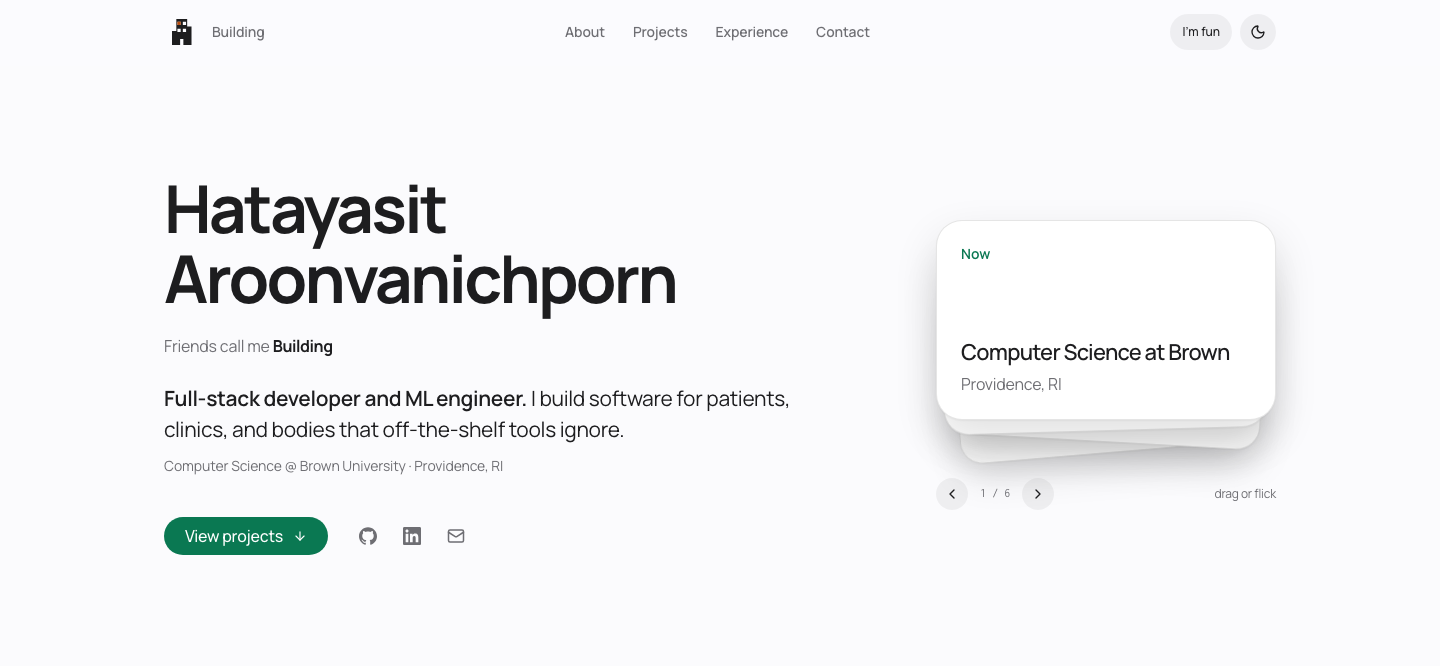
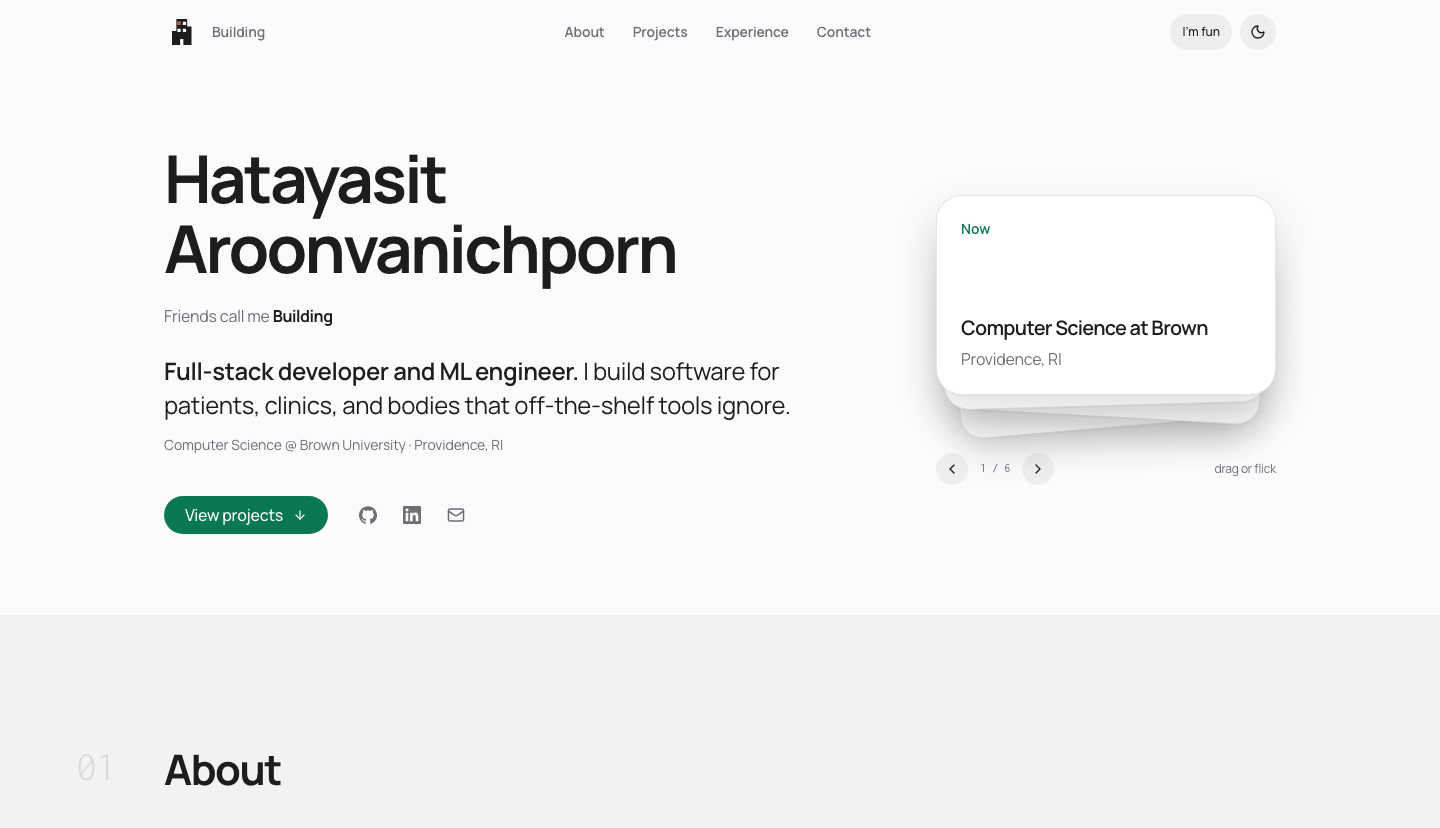
Cut the README to a 2-minute read and give it a demo
It was 1540 words, a 6.4-minute read, and nobody was going to finish it.
Now 538. The FSAB brief asks for "short, specific explanations" and for
"briefly, one challenge", so the old length was over-delivering against a
rubric that asked for the opposite.

The hero now does the explaining. The retro cell is a GIF of the avatar
waking up — eyes open, head lifts, sabre into guard, the Stand summoned —
beside a still of boring mode. Fun mode moves, boring mode sits there, so
the switch needs no caption. Both panels are 1440x828 so the cells match.

Structure borrowed from the READMEs that do this well: a quiet nav row of
middot-separated links, one monoline icon per heading as a visual anchor
(lucide, self-hosted, no external icon service), and the terminal's help
output folded into a <details> where it costs nothing to skim past.

No badges. There is no CI, no package and no download count here, so a
badge row would be decoration pretending to be information.

Cuts: the typography lesson (the rubric wants one challenge, and the
terminal story is the better one), and eight reference entries that
amounted to "I read the docs for the library I used". What remains is
what a licence requires — the Silver Chariot model, the Brown arms, the
OFL typefaces, lucide — plus the Vite starter and the Apple talk the
spring maths came from.

docs/screenshot-retro.png is gone; the GIF replaced it.

diff --git a/README.md b/README.md
@@ -1,103 +1,99 @@
 # <img src="public/favicon.svg" width="26" align="center" alt=""> Hatayasit Aroonvanichporn · Portfolio
 
-My personal site, rebuilt from scratch in React and TypeScript for the Full Stack at Brown developer application. Live at [hatayasit.com](https://www.hatayasit.com).
+My personal site, built from scratch in React and TypeScript.
+
+<h6 align="center">
+  <a href="https://www.hatayasit.com">Live site</a>
+  ·
+  <a href="#overview">What it does</a>
+  ·
+  <a href="#how-to-run-it">Run it</a>
+  ·
+  <a href="#my-contribution">What I built</a>
+</h6>
 
 <table>
 <tr>
-<td width="50%"><img src="docs/screenshot-retro.png" alt="The site in its default retro mode: pixel type on near-black, with a voxel self-portrait holding a sabre"></td>
+<td width="50%"><img src="docs/demo.gif" alt="The site loading: a voxel self-portrait wakes up, lifts its head, raises a sabre into guard, and summons a translucent Stand behind it"></td>
 <td width="50%"><img src="docs/screenshot-boring.png" alt="The same page after pressing I'm boring: quiet type on white, with a card deck where the avatar was"></td>
 </tr>
 <tr>
-<td><b>Default.</b> Pixel type, scanlines, a voxel self-portrait, a terminal on <kbd>`</kbd>.</td>
-<td><b>After pressing “I’m boring”.</b> Same content, same components, no game layer.</td>
+<td><b>Default.</b> Pixel type, a voxel self-portrait, a terminal on <kbd>`</kbd>.</td>
+<td><b>After “I’m boring”.</b> Same components, no game layer.</td>
 </tr>
 </table>
 
-One button swaps those. It is a single piece of React state mirrored onto `<html data-mode>`: every difference above is CSS keyed off that attribute, and the 3D scene is never mounted, so boring mode never downloads three.js.
+**React 19 · TypeScript · Vite 8 · Tailwind v4 · three.js** — four runtime dependencies, no animation library.
 
-## Overview
+## <img src="docs/icons/eye.svg" width="20" align="center" alt=""> Overview
 
-Four things are interactive.
+- **Project gallery with category filters.** One `useState`. The visible list is derived from it on every render, and each project reaches `ProjectCard` through props.
+- **An in-page terminal.** <kbd>`</kbd> opens it. Eleven commands, arrow-key history, reading the same data files as the page.
+- **An "I'm boring" switch.** One attribute on `<html>`; every visual difference above is CSS keyed off it. The 3D scene is never mounted, so boring mode never downloads three.js.
+- **A card deck you can throw.** Drag, flick, catch it mid-flight. A damped spring I wrote judges a throw by where the card was *going*, not where it was let go.
 
-**Project gallery with category filters** (Web, Mobile, ML & vision, Education). The active filter is the only state; the visible list is derived from it on every render, and each project reaches `ProjectCard` through props. HaemoCare and Equipose lead as full-width cards, HaemoCare beside a screenshot of the running app. Projects with no public code say why — internal to MFEC, a printed textbook — instead of quietly dropping the buttons.
+<details>
+<summary>What the terminal knows</summary>
 
-**An in-page terminal.** <kbd>`</kbd> or the terminal button opens it; the arrow keys walk back through history. It reads the same data files as the page, so it cannot disagree with the gallery.
+```console
+❯ help
+help             show this list
+about            who I am
+projects         list projects (alias: ls)
+open <slug>      open a project repo in a new tab
+skills           grouped skill list
+experience       work and awards
+contact          email, GitHub, LinkedIn
+goto <section>   scroll to about | projects | experience | contact
+theme            toggle dark / light
+boring           turn off the retro game styling
+clear            clear the screen
+```
 
-**The "I'm boring" switch.** It takes away the scanlines, the starfield, the fake window bars and the panels, leaving content separated by hairlines, and lays the page out on one rule: facts left in a monospace, prose right, every section aligned to the same rail. The choice persists in `localStorage`. The switch cross-fades through the View Transitions API (`src/lib/viewTransition.ts`), which also slides the filter thumb; reduced motion, reduced transparency and high contrast each have a fallback.
+</details>
 
-**A card deck you can throw** (boring mode only, where the avatar would be). Six facts as a stack. Drag the top card and it tracks the pointer; flick it and it flies off and tucks under the stack; release gently and it springs home; catch it mid-flight and it stops in your hand. There is no animation library — `src/lib/spring.ts` is a damped spring that inherits the pointer's release velocity and judges a throw by where the card was *going*, not where it was let go. Tap, arrow keys and the Previous and Next buttons do the same work, and each card is announced to screen readers.
+## <img src="docs/icons/terminal.svg" width="20" align="center" alt=""> How to run it
 
-On wide screens the hero carries a **voxel avatar**: Brown hoodie with the university arms, AirPods, four-point crutch, sabre, described as boxes on a grid in `src/data/avatar.ts` and drawn as instanced meshes. Silver Chariot stands behind it holding a rapier in the same pose. On load the avatar wakes — eyes open, head lifts, sabre swings into guard, a head nod at 124 BPM with pixel notes drifting up — and then the Stand is summoned. After that it idles, blinks, and follows the mouse. Reduced motion gets one still frame.
-
-Also: dark and light themes in `localStorage`, scroll-triggered reveals, a nav that tracks the section you are reading, a mobile menu, and keyboard focus throughout.
-
-## How to run it
-
-Requires Node 22.12 or newer. Vite runs on 20.19+, but the test runner needs 22.12.
+Node 22.12 or newer. Vite runs on 20.19+, but the test runner needs 22.12.
 
 ```bash
 npm install
-npm run dev        # http://localhost:5173
+npm run dev      # http://localhost:5173
+npm test         # 8 unit tests over the spring maths
 ```
 
-```bash
-npm run build      # typecheck + production build into dist/
-npm run preview    # serve the production build locally
-npm run lint       # oxlint
-npm run typecheck  # tsc
-npm test           # vitest: 8 unit tests over the spring maths
-```
-
-## How it is put together
+## <img src="docs/icons/folder-tree.svg" width="20" align="center" alt=""> How it is put together
 
 ```
 src/
   data/        profile, projects, experience, deck, avatar (the voxel model)
-  components/  one file per UI piece; HeroScene owns the three.js canvas, CardDeck the deck
+  components/  one file per UI piece
   hooks/       useTheme, useBoring, useReveal, useActiveSection
   lib/         terminal, spring (+ spring.test.ts), poseStand, viewTransition
   index.css    theme tokens, retro primitives, motion
 ```
 
-Every string on the page comes from `src/data/`; no component hard-codes text. Three of the four files in `lib/` import no React at all — the command parser, the spring maths and the Stand's pose — which is what makes them straightforward to test and to explain.
+Every string on the page comes from `src/data/`; no component hard-codes text. Three of the four files in `lib/` import no React at all, which is what makes them straightforward to test.
 
-Four runtime dependencies: `react`, `react-dom`, `lucide-react` for icons, and `three`, which sits in its own chunk behind the dynamic import in `HeroScene.tsx`. Tailwind is build-time only and supplies layout utilities; the retro look — offset shadows, checkerboard covers, scanlines, the boot animation — is hand-written CSS. The card deck uses no animation or gesture library, and `vitest` is the only test dependency.
+## <img src="docs/icons/hammer.svg" width="20" align="center" alt=""> My contribution
 
-One third party reaches the browser: the listening card embeds a Spotify player in an `iframe`. It is lazy-loaded and exists only in boring mode, so fun mode never contacts Spotify.
+Everything here is mine. The old version came out of a website builder; this one is hand-written, so I can explain any line of it.
 
-## My contribution
+- **`components/Projects.tsx`** — 64 lines, one `useState`, no reducer and no memoisation. The main interaction, and the part I would most like to be asked about.
+- **`lib/spring.ts` + `components/CardDeck.tsx`** — one `requestAnimationFrame` loop writes `transform` straight to the cards, so dragging never re-renders React. Its only state is the card order.
+- **`lib/poseStand.ts`** — the Silver Chariot model has no skeleton, so I pose its arms by rotating vertices about virtual shoulder and elbow joints.
+- **`components/Nav.tsx` + `public/favicon.svg`** — the mark, a building, because Building is what people call me. One path with an even-odd fill, so the windows are real holes.
 
-Everything here is mine. The previous version of this site came out of a website builder; this one was written by hand, file by file, so I can explain any line of it. Where I would start:
+## <img src="docs/icons/lightbulb.svg" width="20" align="center" alt=""> What I learned
 
-- `src/components/Projects.tsx` — 64 lines, one `useState`, no reducer and no memoisation. The main interaction, and the part I would most like to be asked about.
-- `src/lib/terminal.ts` and `src/components/Terminal.tsx` — the parser and the component that owns its state. Why they are separate is under *What I learned*.
-- `src/lib/spring.ts` and `src/components/CardDeck.tsx` — the same split. Spring, momentum projection and rubber-band are pure functions with unit tests; the component runs one `requestAnimationFrame` loop and writes `transform` straight to the cards, so dragging never re-renders React. Its only state is the card order.
-- `src/lib/poseStand.ts` — the Silver Chariot model has no skeleton, so I pose its arms by rotating the vertices along each arm about a shoulder and an elbow pivot, blending the rotation in around each joint.
-- `src/components/HeroScene.tsx` and `src/data/avatar.ts` — the avatar, and its wake-up written as one `pose(t)` where every step owns its own 0-to-1 progress.
-- `src/hooks/useActiveSection.ts` — the rule is the one you would say out loud: the last section whose top has passed a line just under the nav, with the end of the page always belonging to the last section. I chose it over `IntersectionObserver`, which answers "is any part of this on screen" — a different question that leaves gaps when two sections share the viewport.
-- `src/components/Nav.tsx` and `public/favicon.svg` — the mark, a building, because Building is what people call me. Silhouette and windows are one path with an even-odd fill rule, so the windows are real holes and the mark survives any background. One window is lit.
-- `src/hooks/useTheme.ts` and the inline script in `index.html` that applies the saved theme before the first paint, so the page never flashes the wrong colours.
-- `src/index.css` — the theme token system and the retro primitives.
+Keeping the terminal explainable was the hard part. My first version put everything in the component: a long `switch` on the command string, with `window.open` and theme toggles tangled into the `setState` calls. It worked, but I could not describe it in one breath.
 
-## What I learned
+Splitting it fixed that. `runCommand()` in `src/lib/terminal.ts` takes the input and returns `{ lines, action? }`, where `action` is a plain object like `{ type: 'open', url }`. It touches neither React nor the DOM; the component keeps state, calls it, and carries out whatever comes back. Adding a command is now one `case` in a file that has never imported React.
 
-The hardest part was keeping the terminal explainable. My first version kept everything in the component: a long `switch` on the command string, with `window.open` and theme toggles tangled into the `setState` calls. It worked, but I could not describe it in one breath, and every new command made that worse.
+## <img src="docs/icons/book-open.svg" width="20" align="center" alt=""> References
 
-Splitting it in two fixed it. `runCommand()` in `src/lib/terminal.ts` takes the input string and returns `{ lines, action? }`, where `action` is a plain object like `{ type: 'open', url }`. It never touches React or the DOM. `Terminal.tsx` keeps the input, the printed lines and the history in state, calls `runCommand`, and carries out whatever action comes back. Adding a command is now one `case` in a file that has never imported React, and the component is down to two short functions and its markup.
-
-A smaller lesson was typography. Pixel glyphs are square, so my fifteen-letter surname wants roughly fifteen `em` of width, which overflowed a 390px phone. The fix was `clamp(1.15rem, 5.2vw, 3rem)` tied to the viewport, and a deliberate break between first and last name.
-
-## References
-
-- [Vite](https://vite.dev) `react-ts` template for the initial scaffold (`package.json`, `tsconfig`, `oxlint` config).
-- [React docs](https://react.dev) for `useState`, `useEffect` and `useRef`.
-- [Tailwind CSS v4 docs](https://tailwindcss.com/docs) for the `@theme inline` pattern that lets utilities reference runtime CSS variables.
-- [three.js](https://threejs.org) docs for `InstancedMesh`, `OrthographicCamera` and lights.
-- [lucide-react](https://lucide.dev) for UI icons; the GitHub and LinkedIn marks are from [Simple Icons](https://simpleicons.org) (CC0).
-- Type: [Press Start 2P](https://fonts.google.com/specimen/Press+Start+2P) and [Martian Mono](https://fonts.google.com/specimen/Martian+Mono) from Google Fonts in retro mode. Boring mode is [Manrope](https://github.com/googlefonts/manrope) by Mikhail Sharanda, with [Inconsolata](https://github.com/googlefonts/Inconsolata) by Raph Levien on the metadata rail; both self-hosted as Latin-subset variable fonts under the SIL Open Font License, licences in `public/fonts/`.
-- The Stand behind the avatar is [Silver Chariot](https://sketchfab.com/3d-models/silver-chariot-86a6bf8c3ece40818f7042dbbe5720c6) by [xugangruix](https://sketchfab.com/xugangruix) on Sketchfab, [CC BY 4.0](https://creativecommons.org/licenses/by/4.0/). I resized its textures to WebP and render it translucent; the character is from *JoJo's Bizarre Adventure* by Hirohiko Araki.
-- The Brown University coat of arms on the hoodie is rasterised from [Brown Coat of Arms.svg](https://commons.wikimedia.org/wiki/File:Brown_Coat_of_Arms.svg) on Wikimedia Commons (CC BY-SA 4.0). The arms belong to Brown University.
-- Apple's WWDC 2018 talk [Designing Fluid Interfaces](https://developer.apple.com/videos/play/wwdc2018/803/) for the ideas behind the deck: springs described by response and damping ratio, handing the finger's velocity to the animation, the momentum projection formula, rubber-banding. The code is my own.
-- MDN for `IntersectionObserver`, `prefers-reduced-motion`, [Pointer events](https://developer.mozilla.org/en-US/docs/Web/API/Pointer_events) and the [View Transition API](https://developer.mozilla.org/en-US/docs/Web/API/View_Transition_API).
-- The listening card embeds a [Spotify](https://open.spotify.com) player through their standard embed URL.
-- [Vitest](https://vitest.dev) for the unit tests.
+- Scaffolded from the [Vite](https://vite.dev) `react-ts` template.
+- The deck's spring maths comes from Apple's [Designing Fluid Interfaces](https://developer.apple.com/videos/play/wwdc2018/803/), WWDC 2018. The code is my own.
+- The Stand behind the avatar is [Silver Chariot](https://sketchfab.com/3d-models/silver-chariot-86a6bf8c3ece40818f7042dbbe5720c6) by [xugangruix](https://sketchfab.com/xugangruix), [CC BY 4.0](https://creativecommons.org/licenses/by/4.0/); the character is from *JoJo's Bizarre Adventure*.
+- The [Brown coat of arms](https://commons.wikimedia.org/wiki/File:Brown_Coat_of_Arms.svg) on the hoodie, CC BY-SA 4.0.
+- Type: Press Start 2P, Martian Mono, Manrope, Inconsolata — all OFL, licences in `public/fonts/`. Heading icons from [Lucide](https://lucide.dev) (ISC).
